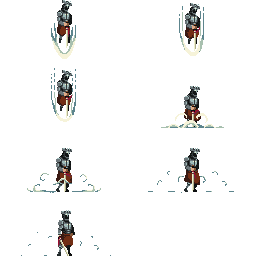
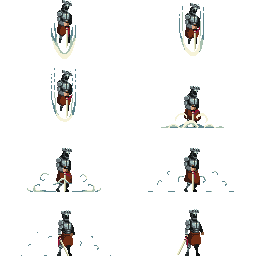
boss animations

Changed region(s): [[0.6875, 0.8125, 0.8125, 1.0]]

diff --git a/src/enemies/boss.cpp b/src/enemies/boss.cpp
@@ -4,16 +4,108 @@ Boss::Boss(Vector2 pos,
 		   const unique_ptr<Player> &player,
 		   unique_ptr<vector<unique_ptr<CollisionBody>>> &terrainCollisionBodies,
 		   const unique_ptr<Reactor<Vector2>> &reactor) : CollisionBody{pos, collisionRect, true},
-										player{player},
-										terrainCollisionBodies{terrainCollisionBodies},
-										reactor{reactor},
-										idleAnimation{
-											"assets/bosses/boss1/Idle.png",
-											2,
-											1.0f / 12.0f,
-											5.f,
-											4
-										} {
+														  player{player},
+														  terrainCollisionBodies{terrainCollisionBodies},
+														  reactor{reactor},
+														  idleAnimation{
+															  "assets/bosses/boss1/Idle.png",
+															  2,
+															  1.0f / 12.0f,
+															  5.f,
+															  4,
+															  0,
+															  3
+														  },
+														  runAnimation{
+															  "assets/bosses/boss1/Run.png",
+															  2,
+															  1.0f / 12.0f,
+															  5.f,
+															  4,
+															  0,
+															  3
+														  },
+														  attack1Animation{
+															  "assets/bosses/boss1/Attacks.png",
+															  8,
+															  1.0f / 10.0f,
+															  5.f,
+															  5,
+															  0,
+															  0
+														  },
+														  attack2Animation{
+															  "assets/bosses/boss1/Attacks.png",
+															  8,
+															  1.0f / 10.0f,
+															  5.f,
+															  5,
+															  1,
+															  1
+														  },
+														  attack3Animation{
+															  "assets/bosses/boss1/Attacks.png",
+															  8,
+															  1.0f / 10.0f,
+															  5.f,
+															  5,
+															  2,
+															  2
+														  },
+														  attackFromAirAnimation{
+															  "assets/bosses/boss1/attack_from_air.png",
+															  2,
+															  1.0f / 10.0f,
+															  5.f,
+															  4,
+															  0,
+															  3
+														  },
+														  hurtAnimation{
+															  "assets/bosses/boss1/Hurt.png",
+															  2,
+															  1.0f / 12.0f,
+															  5.f,
+															  2,
+															  0,
+															  1
+														  },
+														  healthAnimation{
+															  "assets/bosses/boss1/Health.png",
+															  2,
+															  1.0f / 8.0f,
+															  5.f,
+															  4,
+															  0,
+															  3
+														  },
+														  prayAnimation{
+															  "assets/bosses/boss1/Pray.png",
+															  4,
+															  1.0f / 8.0f,
+															  5.f,
+															  3,
+															  0,
+															  2
+														  },
+														  deathAnimation{
+															  "assets/bosses/boss1/Death.png",
+															  2,
+															  1.0f / 8.0f,
+															  5.f,
+															  2,
+															  0,
+															  1
+														  },
+														  jumpAnimation{
+															  "assets/bosses/boss1/Jump.png",
+															  2,
+															  1.0f / 8.0f,
+															  5.f,
+															  4,
+															  0,
+															  3
+														  } {
 
 }
 int Boss::GetHealth() const {
@@ -32,5 +124,33 @@ void Boss::Draw() {
   if (showCollisionBoxes) {
 	DrawRectangleLinesEx(this->collisionRect, 2, RED);
   }
-  idleAnimation.Animate(position, true);
+  bool facingRight = player->position.x + collisionRect.width / 2 > position.x;
+  if (animationCompleted) {
+	random = GetRandomValue(0, 10);
+	animationCompleted = false;
+  }
+  switch (random) {
+	case 0: animationCompleted = attack1Animation.Animate(position, facingRight);
+	  break;
+	case 1: animationCompleted = attack2Animation.Animate(position, facingRight);
+	  break;
+	case 2: animationCompleted = attack3Animation.Animate(position, facingRight);
+	  break;
+	case 3: animationCompleted = attackFromAirAnimation.Animate(position, facingRight);
+	  break;
+	case 4: animationCompleted = runAnimation.Animate(position, facingRight);
+	  break;
+	case 5: animationCompleted = idleAnimation.Animate(position, facingRight);
+	  break;
+	case 6: animationCompleted = jumpAnimation.Animate(position, facingRight);
+	  break;
+	case 7: animationCompleted = deathAnimation.Animate(position, facingRight);
+	  break;
+	case 8: animationCompleted = prayAnimation.Animate(position, facingRight);
+	  break;
+	case 9: animationCompleted = hurtAnimation.Animate(position, facingRight);
+	  break;
+	case 10: animationCompleted = healthAnimation.Animate(position, facingRight);
+	  break;
+  }
 }

diff --git a/src/animation.cpp b/src/animation.cpp
@@ -1,10 +1,12 @@
 #include "animation.h"
 
-Animation::Animation(const char *texturePath, int numberOfFrames, float updateTime, float scale, int rows) :
+Animation::Animation(const char *texturePath, int numberOfFrames, float updateTime, float scale, int rows, int firstRow, int lastRow) :
 	numberOfFrames{numberOfFrames},
 	updateTime{updateTime},
 	scale{scale},
-	rows{rows} {
+	rows{rows},
+	firstRow{firstRow},
+	lastRow{lastRow} {
   this->texture = LoadTexture(texturePath);
   rectangle = {
 	  0.0f,
@@ -12,6 +14,7 @@ Animation::Animation(const char *texturePath, int numberOfFrames, float updateTi
 	  static_cast<float>(texture.width) / static_cast<float>(numberOfFrames),
 	  static_cast<float>(texture.height) / static_cast<float>(rows)
   };
+  currentRow = firstRow;
   
   texturePath = texturePath;
 }
@@ -74,9 +77,9 @@ bool Animation::Animate(Vector2 pos, bool facingRight) {
   rectangle.width = facingRight ? abs(rectangle.width) : -abs(rectangle.width);
   if (runningTime >= updateTime) {
 	runningTime = 0.0f;
-	if (rectangle.x + rectangle.width >= texture.width) {
-	  if (currentRow >= rows - 1) {
-		currentRow = 0;
+	if (rectangle.x + abs(rectangle.width) >= texture.width) {
+	  if (currentRow >= lastRow) {
+		currentRow = firstRow;
 	  } else {
 		currentRow++;
 	  }
@@ -84,7 +87,7 @@ bool Animation::Animate(Vector2 pos, bool facingRight) {
 	rectangle.x = frame * abs(rectangle.width);
 	rectangle.y = currentRow * abs(rectangle.height);
 	frame++;
-	if (frame >= static_cast<float>(numberOfFrames)) {
+	if (frame >= static_cast<float>(numberOfFrames) && currentRow == firstRow) {
 	  frame = 0;
 	  completed = true;
 	}
@@ -109,6 +112,5 @@ Rectangle Animation::GetSourceRec() const {
 }
 
 Animation::~Animation() {
-  TraceLog(LOG_INFO, "Unloading texture %d", texture.id);
   UnloadTexture(texture);
 }

diff --git a/src/animation.h b/src/animation.h
@@ -14,6 +14,8 @@ class Animation {
   int width;
   int height;
   int rows;
+  int firstRow;
+  int lastRow;
   int currentRow{};
   Rectangle rectangle;
   float runningTime{};
@@ -23,7 +25,7 @@ class Animation {
   float frame{};
   float scale{};
   int numberOfFrames;
-  Animation(const char *texturePath, int numberOfFrames, float updateTime, float scale = 4.f, int rows = 1);
+  Animation(const char *texturePath, int numberOfFrames, float updateTime, float scale = 4.f, int rows = 1, int firstRow = 0, int lastRow = 0);
 
   void SetPosition(Vector2 pos);
   Vector2 GetPosition() const;

diff --git a/src/enemies/boss.h b/src/enemies/boss.h
@@ -10,6 +10,18 @@ using namespace std;
 
 class Boss : public CollisionBody, public Enemy {
   Animation idleAnimation;
+  Animation runAnimation;
+  Animation attack1Animation;
+  Animation attack2Animation;
+  Animation attack3Animation;
+  Animation attackFromAirAnimation;
+  Animation hurtAnimation;
+  Animation healthAnimation;
+  Animation prayAnimation;
+  Animation deathAnimation;
+  Animation jumpAnimation;
+  bool animationCompleted{};
+  int random{};
  public:
   Boss(Vector2 pos,
 	   Rectangle collisionRect,

diff --git a/src/player.cpp b/src/player.cpp
@@ -106,7 +106,7 @@ void Player::Draw() {
   } else if ((IsKeyPressed(KEY_N) || IsGamepadButtonPressed(0, GAMEPAD_BUTTON_RIGHT_FACE_DOWN)) && !attacking && !hit
 	  && stamina >= 10) {
 	attacking = true;
-	stamina -= 10;
+	stamina -= 15;
   }
 
   position.y += fallSpeed;
